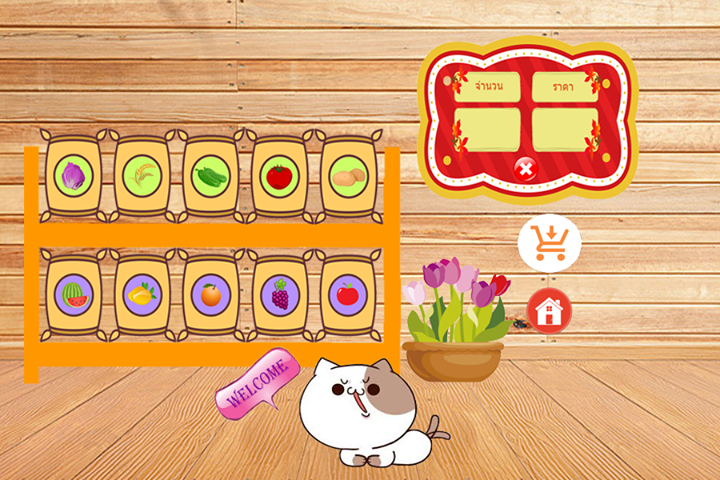
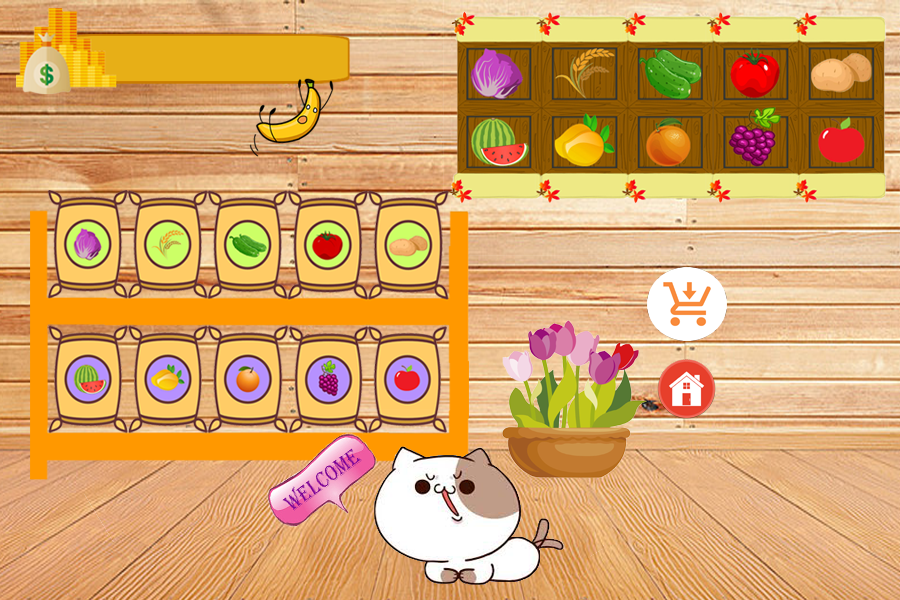
add location of shop button and now can buy

diff --git a/run.py b/run.py
@@ -65,12 +65,14 @@ class Image_():
         self.bot_bg = pygame.image.load(join('assets','image','bg_nowatering.png')).convert_alpha()
         self.minigame_bg = pygame.image.load(join('assets','image','minigame_bg.png')).convert_alpha()
         self.win_bg = pygame.image.load(join('assets','image','win_bg.png')).convert_alpha()
+        self.win_defend_bg = pygame.image.load(join('assets','image','win_defend_bg.png')).convert_alpha()
         self.draw_bg = pygame.image.load(join('assets','image','draw_bg.png')).convert_alpha()
         self.lose_bg = pygame.image.load(join('assets','image','lose_bg.png')).convert_alpha()
         self.storage_bg = pygame.image.load(join('assets','image','storage_bg.png')).convert_alpha()
         self.storage_bg_p1 = pygame.image.load(join('assets','image','storage_bg_p1.png')).convert_alpha()
         self.storage_bg_p2 = pygame.image.load(join('assets','image','storage_bg_p2.png')).convert_alpha()
         self.storage_bg_p3 = pygame.image.load(join('assets','image','storage_bg_p3.png')).convert_alpha()
+        self.shop_bg = pygame.image.load(join('assets','image','shop_bg.png')).convert_alpha()
         
         self.dry_farm = pygame.image.load(join('assets','image','dry_farm.png')).convert_alpha()
         self.wet_farm = pygame.image.load(join('assets','image','wet_farm.png')).convert_alpha()
@@ -976,7 +978,7 @@ class Player_farm():
 
         
         if result == 'win':
-            window.blit(pygame.transform.scale(loaded_image.win_bg, resolution), (0, 0))
+            window.blit(pygame.transform.scale(loaded_image.win_defend_bg, resolution), (0, 0))
             print ('You Win !!!')
         elif result == 'lose':
             window.blit(pygame.transform.scale(loaded_image.lose_bg, resolution), (0, 0))
@@ -1543,10 +1545,10 @@ class Shop_menu():
     def __init__(self,inventory, money):
         self.inv = inventory
         self.money = money
-        self.home_button = ((0,0),(0,0))
-        self.buy_button = ((0,0),(0,0))
-        self.seedselection_button = [((0,0),(0,0)), ((0,0),(0,0)), ((0,0),(0,0)), ((0,0),(0,0)), ((0,0),(0,0)),
-                                    ((0,0),(0,0)), ((0,0),(0,0)), ((0,0),(0,0)), ((0,0),(0,0)), ((0,0),(0,0))]
+        self.home_button = ((586,360),(637,418))
+        self.buy_button = ((575,267),(647,341))
+        self.seedselection_button = [((43,190),(114,298)), ((114,190),(185,298)), ((185,190),(257,298)), ((257,190),(328,298)), ((328,190),(399,298)),
+                                    ((43,326),(114,433)), ((114,326),(185,433)), ((185,326),(257,433)), ((257,326),(328,433)), ((328,326),(399,433))]
         self.seedselection_order = ['redcabbage_seed', 'wheat_seed', 'cucumber_seed', 'tomato_seed', 'potato_seed', 
                                     'melon_seed', 'mango_seed', 'orange_seed', 'grape_seed', 'apple_seed']
         self.price_index = { 'wheat_seed': Wheat().seed_price, 
@@ -1608,7 +1610,8 @@ class Shop_menu():
                     if is_hit_box(mouse_pos,slot[0], slot[1]) and buy:
                         print ('Shop : buy')
                         seed_name = self.seedselection_order[index]
-                        if clickdown:
+                        if clickdown and (self.money > self.price_index[seed_name]):
+                            print ('buy: ',seed_name, ' ,price: ', self.price_index[seed_name], ' ,You balance: ',self.money)
                             self.inv.add(seed_name, 1)
                             self.money -= self.price_index[seed_name]
                     index += 1
